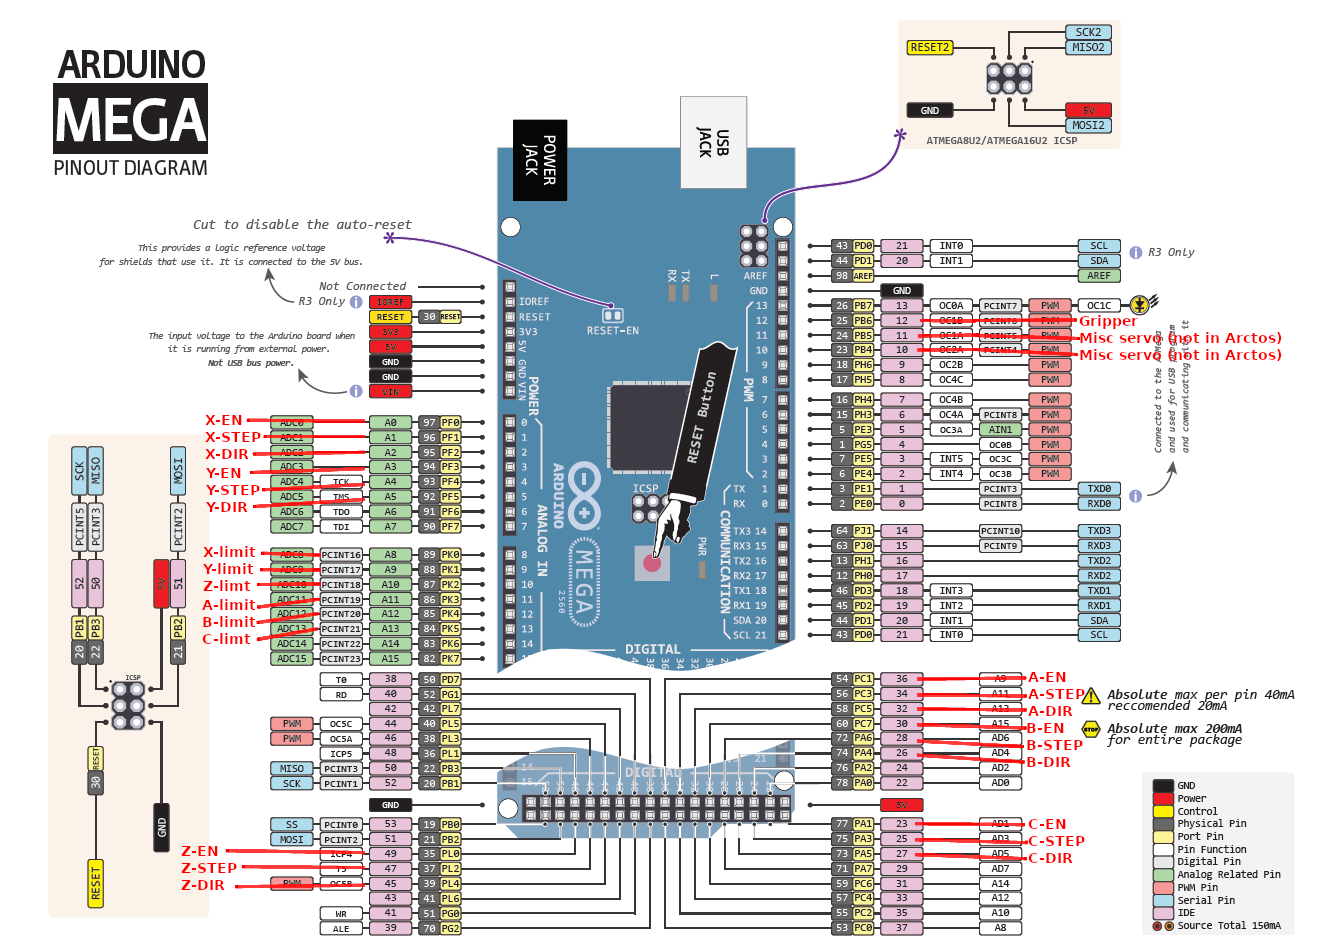
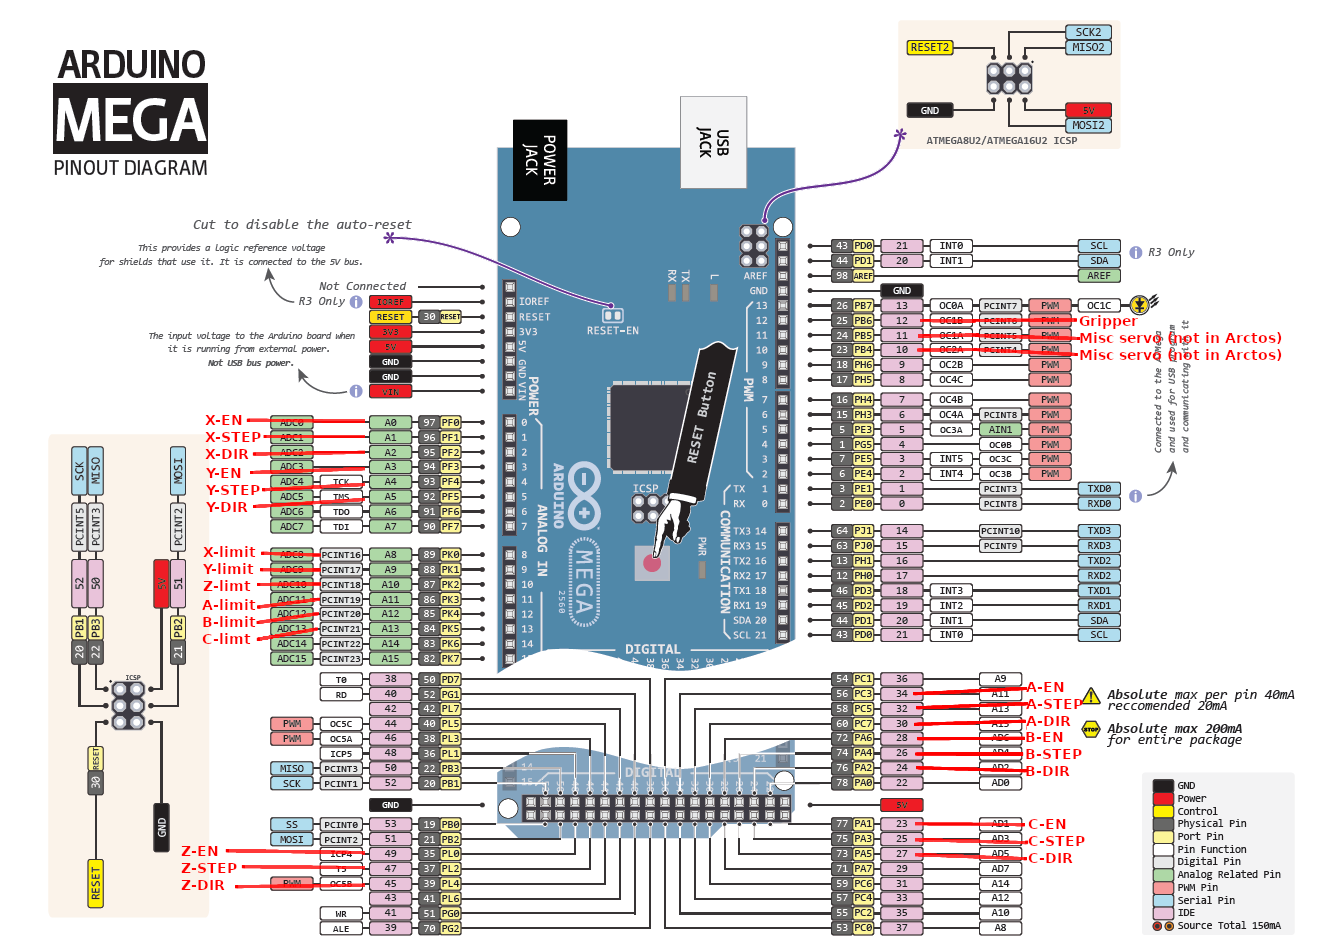
Bench tested all motors and fixed mapping problems.

Changed region(s): [[0.6787, 0.7051, 0.833, 0.8277]]

diff --git a/docs/arctos/boardmap_overrides.h b/docs/arctos/boardmap_overrides.h
@@ -25,9 +25,9 @@ extern "C"
 #define STEP1_PORT F
 #define STEP2_BIT 2
 #define STEP2_PORT L
-#define STEP3_BIT 3
+#define STEP3_BIT 5
 #define STEP3_PORT C
-#define STEP4_BIT 6
+#define STEP4_BIT 4
 #define STEP4_PORT A
 #define STEP5_BIT 3
 #define STEP5_PORT A
@@ -37,9 +37,9 @@ extern "C"
 #define DIR1_PORT F
 #define DIR2_BIT 4
 #define DIR2_PORT L
-#define DIR3_BIT 5
+#define DIR3_BIT 7
 #define DIR3_PORT C
-#define DIR4_BIT 4
+#define DIR4_BIT 2
 #define DIR4_PORT A
 #define DIR5_BIT 5
 #define DIR5_PORT A
@@ -49,10 +49,10 @@ extern "C"
 #define STEP1_EN_PORT F
 #define STEP2_EN_BIT 0
 #define STEP2_EN_PORT L
-#define STEP3_EN_BIT 1
+#define STEP3_EN_BIT 3
 #define STEP3_EN_PORT C
-#define STEP4_EN_BIT 7
-#define STEP4_EN_PORT C
+#define STEP4_EN_BIT 6
+#define STEP4_EN_PORT A
 #define STEP5_EN_BIT 1
 #define STEP5_EN_PORT A
 #define PWM0_BIT 6

diff --git a/uCNC/boardmap_overrides.h b/uCNC/boardmap_overrides.h
@@ -25,9 +25,9 @@ extern "C"
 #define STEP1_PORT F
 #define STEP2_BIT 2
 #define STEP2_PORT L
-#define STEP3_BIT 3
+#define STEP3_BIT 5
 #define STEP3_PORT C
-#define STEP4_BIT 6
+#define STEP4_BIT 4
 #define STEP4_PORT A
 #define STEP5_BIT 3
 #define STEP5_PORT A
@@ -37,9 +37,9 @@ extern "C"
 #define DIR1_PORT F
 #define DIR2_BIT 4
 #define DIR2_PORT L
-#define DIR3_BIT 5
+#define DIR3_BIT 7
 #define DIR3_PORT C
-#define DIR4_BIT 4
+#define DIR4_BIT 2
 #define DIR4_PORT A
 #define DIR5_BIT 5
 #define DIR5_PORT A
@@ -49,10 +49,10 @@ extern "C"
 #define STEP1_EN_PORT F
 #define STEP2_EN_BIT 0
 #define STEP2_EN_PORT L
-#define STEP3_EN_BIT 1
+#define STEP3_EN_BIT 3
 #define STEP3_EN_PORT C
-#define STEP4_EN_BIT 7
-#define STEP4_EN_PORT C
+#define STEP4_EN_BIT 6
+#define STEP4_EN_PORT A
 #define STEP5_EN_BIT 1
 #define STEP5_EN_PORT A
 #define PWM0_BIT 6

diff --git a/docs/arctos/README.md b/docs/arctos/README.md
@@ -16,30 +16,30 @@ This section describes the pin connections for this configuration specific to th
 
 |Signal Name|Ardino Port|Connection|Description|
 |---|---|----------|-----------|
-|OK X-EN|PF0|No Connection|This is reserved for future use if, ideally, the XYZ Axes enable bits can be wired separately.  The CNC Shield does not permit individual control of the EN bit, so this is No Connect.
-|OK X-STEP|PF1|CNC Shield #1 XSTEP|Step the X axis|
-|NO X-DIR|PF2|CNC Shield #1 XDIR|Direction of X axis movement|
-|OK Y-EN|PF3|No Connection|This is reserved for future use if, ideally, the XYZ Axes enable bits can be wired separately.  The CNC Shield does not permit individual control of the EN bit, so this is No Connect.
-|OK Y-STEP|PF4|CNC Shield #1 YSTEP|Step the Y axis|
-|NO Y-DIR|PF5|CNC Shield #1 YDIR|Direction of Y axis movement|
-|OK Z-EN|PL0|No Connection|This is reserved for future use if, ideally, the XYZ Axes enable bits can be wired separately.  The CNC Shield does not permit individual control of the EN bit, so this is No Connect.
-|OK Z-STEP|PL2|CNC Shield #1 ZSTEP|Step the Z axis|
-|NO Z-DIR|PL4|CNC Shield #1 ZDIR|Direction of Z axis movement|
-|OK X-LIMIT|PK0(PCINT16)|X Limit Switch "Red" wire|Limit switch for X axis. Limit switch black pin goes to GND|
-|OK Y-LIMIT|PK1(PCINT17)|Y Limit Switch "Red" wire|Limit switch for Y axis. Limit switch black pin goes to GND|
-|OK Z-LIMIT|PK2(PCINT18)|Z Limit Switch "Red" wire|Limit switch for Z axis. Limit switch black pin goes to GND|
-|OK A-LIMIT|PK3(PCINT19)|A Limit switch "Red" wire|Limit switch for A axis. Limit switch black pin goes to GND|
-|OK B-LIMIT|PK4(PCINT20)|B Limit switch "Red" wire|Limit switch for C axis. Limit switch black pin goes to GND|
-|OK C-LIMIT|PK5(PCINT21)|C Limit switch "Red" wire|Limit switch for C axis. Limit switch black pin goes to GND|
-|OK A-EN|PC1|No Connection|This is reserved for future use if, ideally, the XYZ Axes enable bits can be wired separately.  The CNC Shield does not permit individual control of the EN bit, so this is No Connect.
-|OK A-STEP|PC3|CNC Shield #2 XSTEP|Step the A axis|
-|NO A-DIR|PC5|CNC Shield #2 XDIR|Direction of A axis movement|
-|OK B-EN|PC7|No Connection|This is reserved for future use if, ideally, the XYZ Axes enable bits can be wired separately.  The CNC Shield does not permit individual control of the EN bit, so this is No Connect.
-|B-STEP|PA6|CNC Shield #2 YSTEP|Step the B axis|
-|NO B-DIR|PA4|CNC Shield #2 YDIR|Direction of B axis movement|
+|X-EN|PF0|No Connection|This is reserved for future use if, ideally, the XYZ Axes enable bits can be wired separately.  The CNC Shield does not permit individual control of the EN bit, so this is No Connect.
+|X-STEP|PF1|CNC Shield #1 XSTEP|Step the X axis|
+|X-DIR|PF2|CNC Shield #1 XDIR|Direction of X axis movement|
+|Y-EN|PF3|No Connection|This is reserved for future use if, ideally, the XYZ Axes enable bits can be wired separately.  The CNC Shield does not permit individual control of the EN bit, so this is No Connect.
+|Y-STEP|PF4|CNC Shield #1 YSTEP|Step the Y axis|
+|Y-DIR|PF5|CNC Shield #1 YDIR|Direction of Y axis movement|
+|Z-EN|PL0|No Connection|This is reserved for future use if, ideally, the XYZ Axes enable bits can be wired separately.  The CNC Shield does not permit individual control of the EN bit, so this is No Connect.
+|Z-STEP|PL2|CNC Shield #1 ZSTEP|Step the Z axis|
+|Z-DIR|PL4|CNC Shield #1 ZDIR|Direction of Z axis movement|
+|X-LIMIT|PK0(PCINT16)|X Limit Switch "Red" wire|Limit switch for X axis. Limit switch black pin goes to GND|
+|Y-LIMIT|PK1(PCINT17)|Y Limit Switch "Red" wire|Limit switch for Y axis. Limit switch black pin goes to GND|
+|Z-LIMIT|PK2(PCINT18)|Z Limit Switch "Red" wire|Limit switch for Z axis. Limit switch black pin goes to GND|
+|A-LIMIT|PK3(PCINT19)|A Limit switch "Red" wire|Limit switch for A axis. Limit switch black pin goes to GND|
+|B-LIMIT|PK4(PCINT20)|B Limit switch "Red" wire|Limit switch for C axis. Limit switch black pin goes to GND|
+|C-LIMIT|PK5(PCINT21)|C Limit switch "Red" wire|Limit switch for C axis. Limit switch black pin goes to GND|
+|A-EN|PC3|No Connection|This is reserved for future use if, ideally, the XYZ Axes enable bits can be wired separately.  The CNC Shield does not permit individual control of the EN bit, so this is No Connect.
+|A-STEP|PC5|CNC Shield #2 XSTEP|Step the A axis|
+|A-DIR|PC7|CNC Shield #2 XDIR|Direction of A axis movement|
+|B-EN|PA6|No Connection|This is reserved for future use if, ideally, the XYZ Axes enable bits can be wired separately.  The CNC Shield does not permit individual control of the EN bit, so this is No Connect.
+|B-STEP|PA4|CNC Shield #2 YSTEP|Step the B axis|
+|B-DIR|PA2|CNC Shield #2 YDIR|Direction of B axis movement|
 |C-EN|PA1|No Connection|This is reserved for future use if, ideally, the XYZ Axes enable bits can be wired separately.  The CNC Shield does not permit individual control of the EN bit, so this is No Connect.
 |C-STEP|PA3|CNC Shield #2 ZSTEP|Step the C axis|
-|NO C-DIR|PA5|CNC Shield #2 ZDIR|Direction of C axis movement|
+|C-DIR|PA5|CNC Shield #2 ZDIR|Direction of C axis movement|
 |GRIPPER|PB6|Gripper Servo PWM signal|Servo PWM Signal for Arctos Gripper or other end-effector.|
 |SERVO1|PB5|No Connection|This is reserved for future use in the event another servo were used, for example, as a 'tool' on the Arctos as an alternate end-effector.|
 |SERVO2|PB4|No Connection|This is reserved for future use in the event another servo were used, for example, as a 'tool' on the Arctos as an alternate end-effector.|
